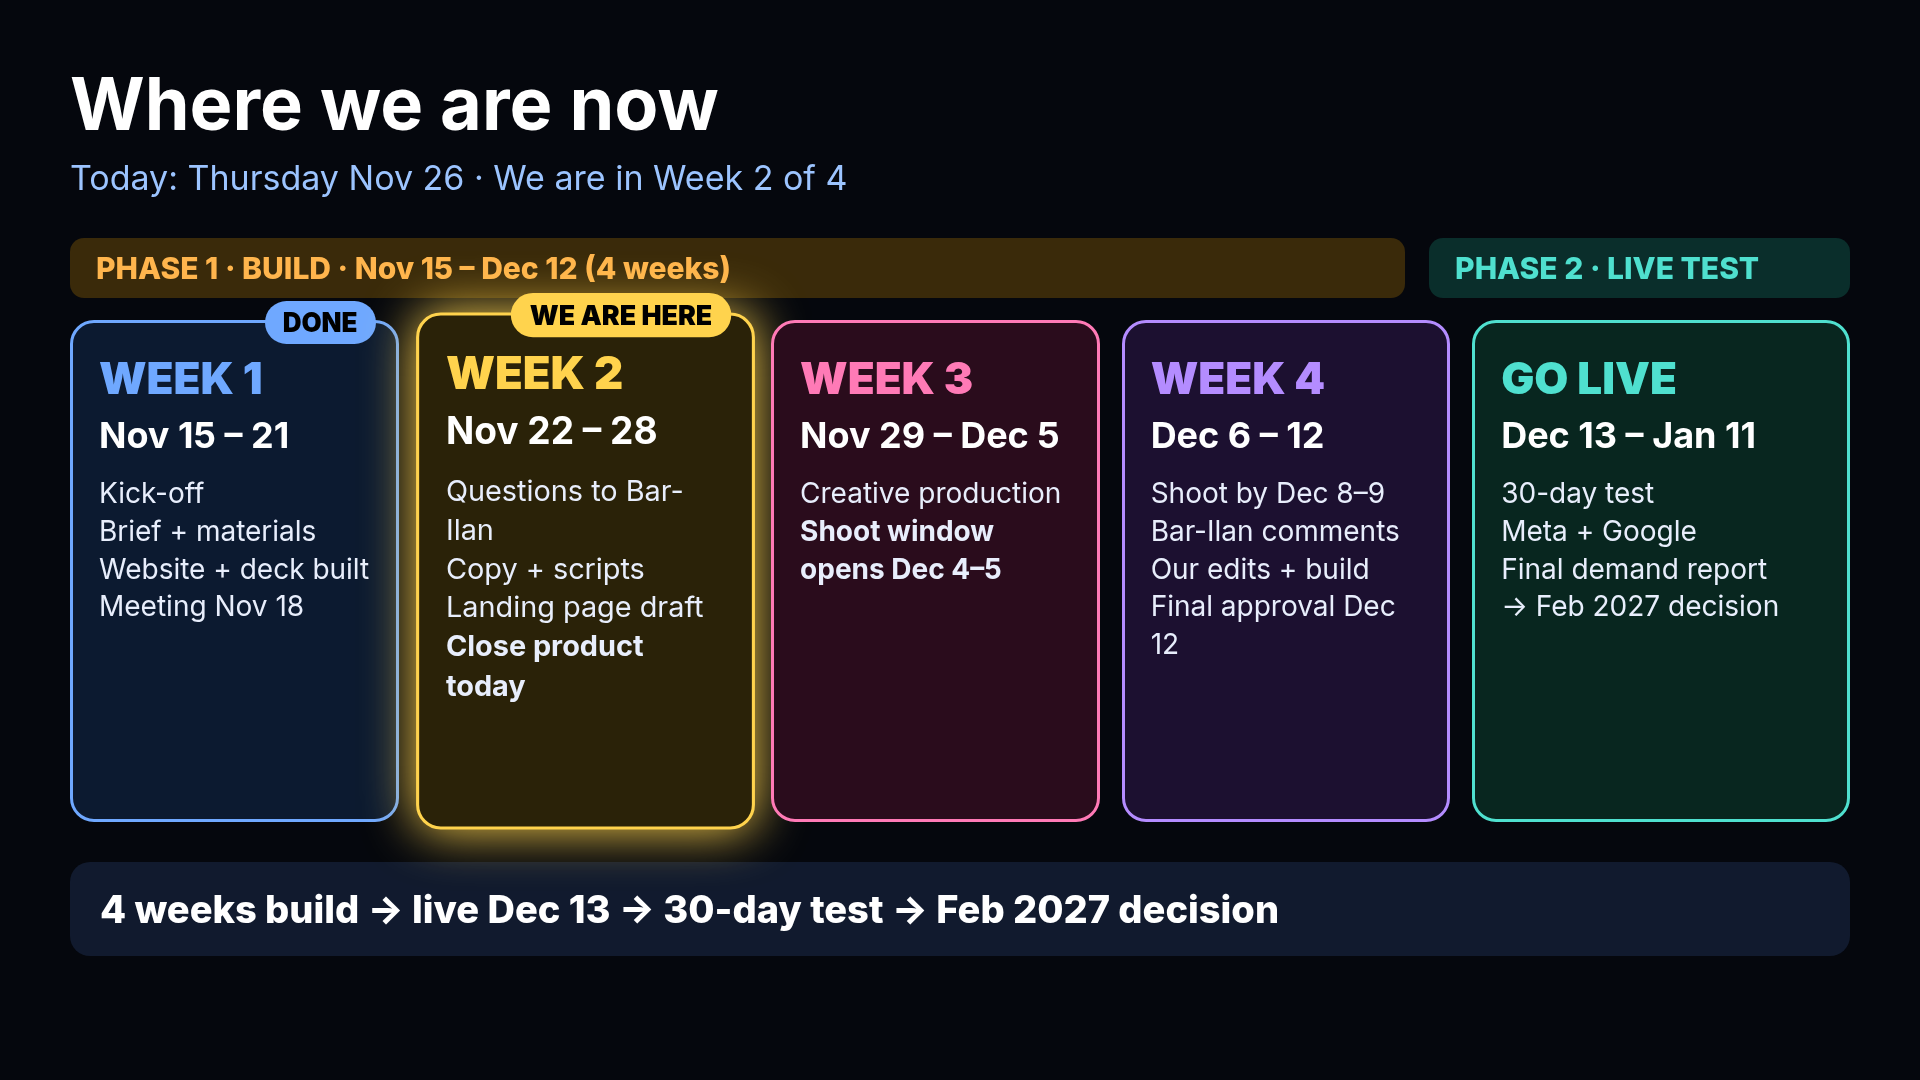
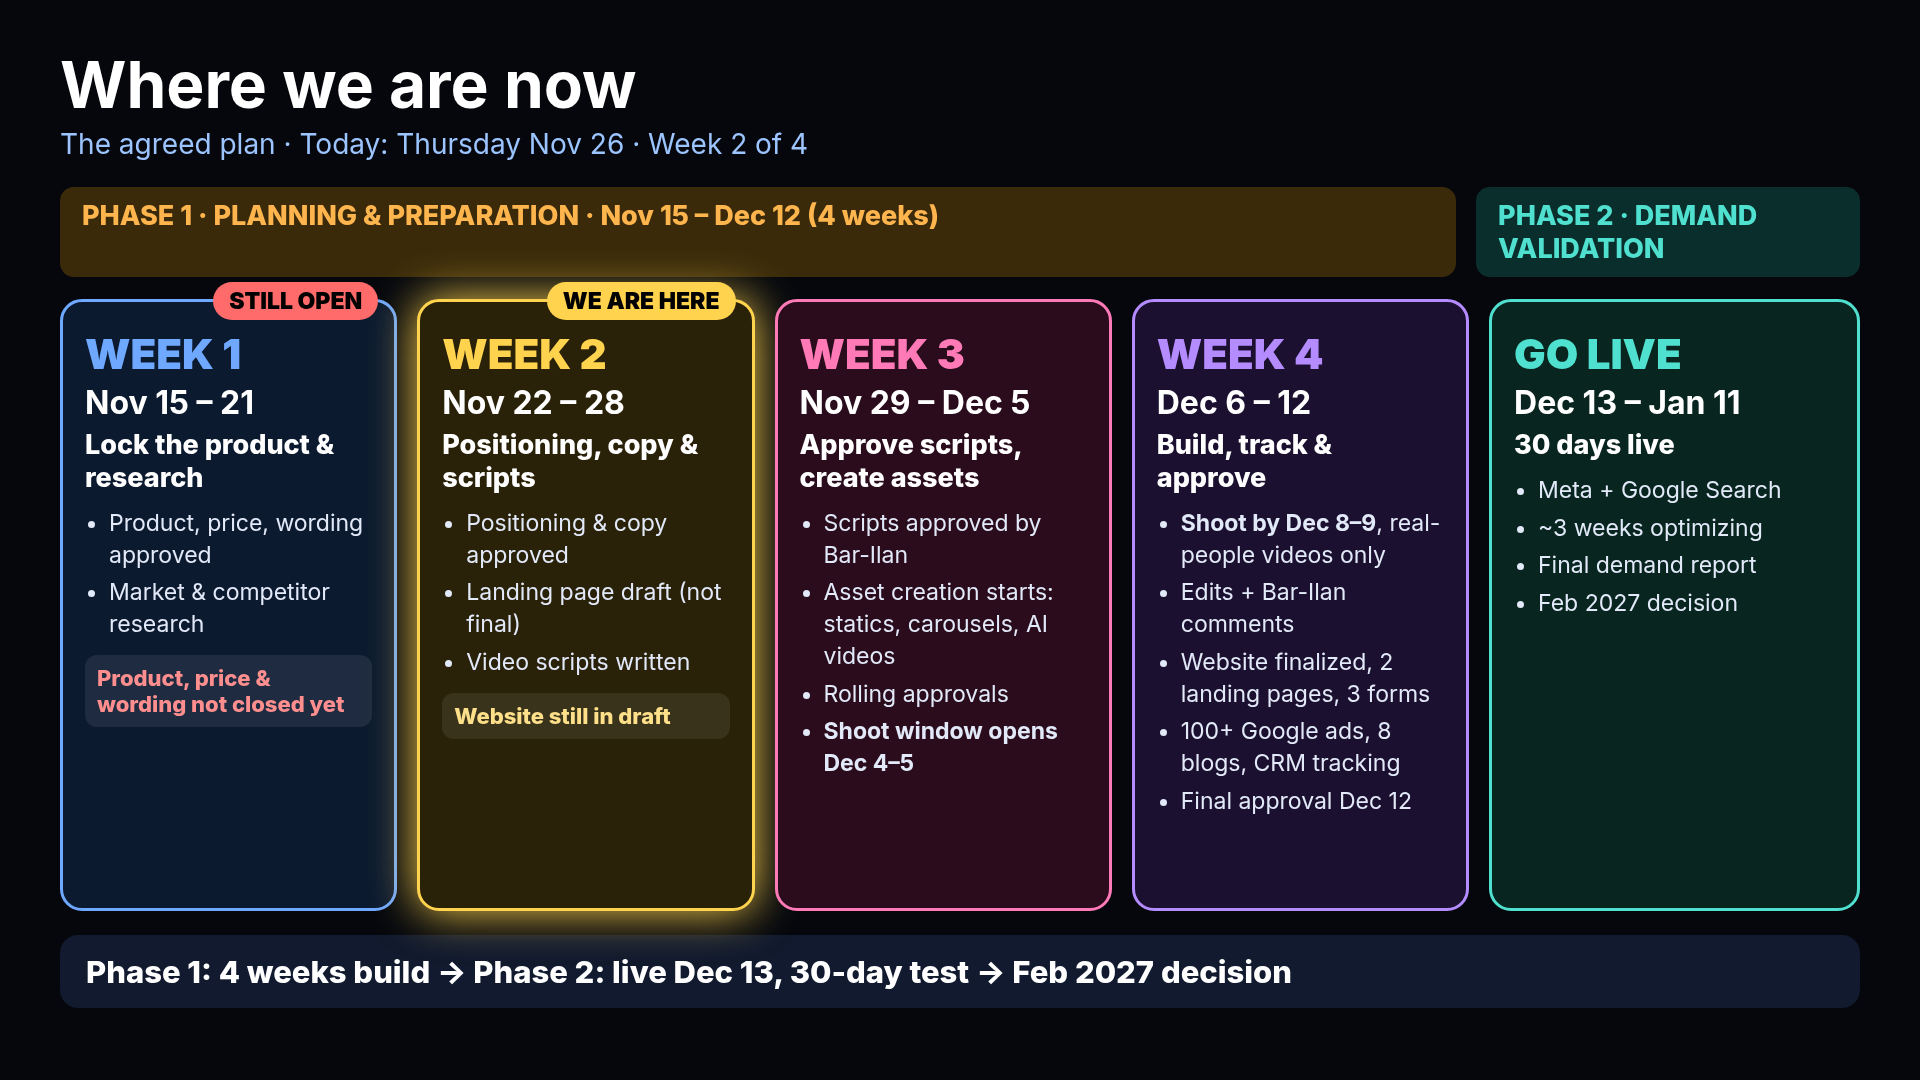
Timeline back on agreed phases and weeks, accurate statuses

diff --git a/present/timeline-source.html b/present/timeline-source.html
@@ -1,22 +1,24 @@
 <!doctype html><html><head><meta charset="utf-8"><style>
-body{margin:0;width:1920px;height:1080px;background:#05070d;color:#fff;font-family:Inter,Arial,sans-serif;padding:60px 70px;box-sizing:border-box}
-h1{font-size:72px;margin:0 0 10px}.sub{font-size:34px;color:#9cc4ff;margin-bottom:40px}
-.ph{display:flex;gap:24px;margin-bottom:22px}.lab{font-size:30px;font-weight:800;padding:12px 26px;border-radius:14px}
-.row{display:grid;grid-template-columns:repeat(4,1fr) 1.15fr;gap:22px}
-.c{border-radius:24px;padding:28px 26px;border:3px solid;min-height:440px;position:relative}
-.w{font-size:44px;font-weight:900}.d{font-size:36px;font-weight:700;margin:8px 0 18px}
-.t{font-size:28px;line-height:1.35;color:#e8eefc}.tag{position:absolute;top:-22px;right:20px;font-size:26px;font-weight:900;padding:6px 18px;border-radius:30px;color:#000}
-.now{box-shadow:0 0 50px #ffd34d;transform:scale(1.03)}
-.bot{margin-top:40px;font-size:38px;font-weight:800;background:#111a2e;border-radius:20px;padding:24px 30px}
+body{margin:0;width:1920px;height:1080px;background:#05070d;color:#fff;font-family:Inter,Arial,sans-serif;padding:46px 60px;box-sizing:border-box}
+h1{font-size:64px;margin:0 0 4px}.sub{font-size:28px;color:#9cc4ff;margin-bottom:26px}
+.ph{display:grid;grid-template-columns:4fr 1.1fr;gap:20px;margin-bottom:22px}.lab{font-size:27px;font-weight:800;padding:12px 22px;border-radius:14px}
+.row{display:grid;grid-template-columns:repeat(4,1fr) 1.1fr;gap:20px}
+.c{border-radius:22px;padding:26px 22px 20px;border:3px solid;min-height:560px;position:relative}
+.w{font-size:42px;font-weight:900}.d{font-size:32px;font-weight:700;margin:4px 0 6px}.h{font-size:27px;font-weight:800;margin-bottom:14px;color:#fff}
+.t{font-size:23px;line-height:1.38;color:#e2e9f8}.t li{margin-bottom:6px}.t ul{padding-left:24px;margin:0}
+.st{margin-top:14px;font-size:22px;font-weight:800;padding:10px 12px;border-radius:12px;background:#ffffff14}
+.tag{position:absolute;top:-20px;right:16px;font-size:23px;font-weight:900;padding:5px 16px;border-radius:30px;color:#000}
+.now{box-shadow:0 0 46px #ffd34d}
+.bot{margin-top:24px;font-size:31px;font-weight:800;background:#111a2e;border-radius:18px;padding:18px 26px}
 </style></head><body>
-<h1>Where we are now</h1><div class="sub">Today: Thursday Nov 26 · We are in Week 2 of 4</div>
-<div class="ph"><div class="lab" style="background:#3a2a0a;color:#ffb54d;flex:4">PHASE 1 · BUILD · Nov 15 – Dec 12 (4 weeks)</div><div class="lab" style="background:#0a2e2b;color:#4fe0cf;flex:1.15">PHASE 2 · LIVE TEST</div></div>
+<h1>Where we are now</h1><div class="sub">The agreed plan · Today: Thursday Nov 26 · Week 2 of 4</div>
+<div class="ph"><div class="lab" style="background:#3a2a0a;color:#ffb54d">PHASE 1 · PLANNING &amp; PREPARATION · Nov 15 – Dec 12 (4 weeks)</div><div class="lab" style="background:#0a2e2b;color:#4fe0cf">PHASE 2 · DEMAND VALIDATION</div></div>
 <div class="row">
-<div class="c" style="border-color:#6FA8FF;background:#0c1a30"><div class="tag" style="background:#6FA8FF">DONE</div><div class="w" style="color:#6FA8FF">WEEK 1</div><div class="d">Nov 15 – 21</div><div class="t">Kick-off<br>Brief + materials<br>Website + deck built<br>Meeting Nov 18</div></div>
-<div class="c now" style="border-color:#ffd34d;background:#2a2208"><div class="tag" style="background:#ffd34d">WE ARE HERE</div><div class="w" style="color:#ffd34d">WEEK 2</div><div class="d">Nov 22 – 28</div><div class="t">Questions to Bar-Ilan<br>Copy + scripts<br>Landing page draft<br><b>Close product today</b></div></div>
-<div class="c" style="border-color:#ff7ab6;background:#2a0c1c"><div class="w" style="color:#ff7ab6">WEEK 3</div><div class="d">Nov 29 – Dec 5</div><div class="t">Creative production<br><b>Shoot window opens Dec 4–5</b></div></div>
-<div class="c" style="border-color:#b48cff;background:#1c1030"><div class="w" style="color:#b48cff">WEEK 4</div><div class="d">Dec 6 – 12</div><div class="t">Shoot by Dec 8–9<br>Bar-Ilan comments<br>Our edits + build<br>Final approval Dec 12</div></div>
-<div class="c" style="border-color:#4fe0cf;background:#08261f"><div class="w" style="color:#4fe0cf">GO LIVE</div><div class="d">Dec 13 – Jan 11</div><div class="t">30-day test<br>Meta + Google<br>Final demand report<br>→ Feb 2027 decision</div></div>
+<div class="c" style="border-color:#6FA8FF;background:#0c1a30"><div class="tag" style="background:#ff6b6b">STILL OPEN</div><div class="w" style="color:#6FA8FF">WEEK 1</div><div class="d">Nov 15 – 21</div><div class="h">Lock the product &amp; research</div><div class="t"><ul><li>Product, price, wording approved</li><li>Market &amp; competitor research</li></ul></div><div class="st" style="color:#ff8f8f">Product, price &amp; wording not closed yet</div></div>
+<div class="c now" style="border-color:#ffd34d;background:#2a2208"><div class="tag" style="background:#ffd34d">WE ARE HERE</div><div class="w" style="color:#ffd34d">WEEK 2</div><div class="d">Nov 22 – 28</div><div class="h">Positioning, copy &amp; scripts</div><div class="t"><ul><li>Positioning &amp; copy approved</li><li>Landing page draft (not final)</li><li>Video scripts written</li></ul></div><div class="st" style="color:#ffe08a">Website still in draft</div></div>
+<div class="c" style="border-color:#ff7ab6;background:#2a0c1c"><div class="w" style="color:#ff7ab6">WEEK 3</div><div class="d">Nov 29 – Dec 5</div><div class="h">Approve scripts, create assets</div><div class="t"><ul><li>Scripts approved by Bar-Ilan</li><li>Asset creation starts: statics, carousels, AI videos</li><li>Rolling approvals</li><li><b>Shoot window opens Dec 4–5</b></li></ul></div></div>
+<div class="c" style="border-color:#b48cff;background:#1c1030"><div class="w" style="color:#b48cff">WEEK 4</div><div class="d">Dec 6 – 12</div><div class="h">Build, track &amp; approve</div><div class="t"><ul><li><b>Shoot by Dec 8–9</b>, real-people videos only</li><li>Edits + Bar-Ilan comments</li><li>Website finalized, 2 landing pages, 3 forms</li><li>100+ Google ads, 8 blogs, CRM tracking</li><li>Final approval Dec 12</li></ul></div></div>
+<div class="c" style="border-color:#4fe0cf;background:#08261f"><div class="w" style="color:#4fe0cf">GO LIVE</div><div class="d">Dec 13 – Jan 11</div><div class="h">30 days live</div><div class="t"><ul><li>Meta + Google Search</li><li>~3 weeks optimizing</li><li>Final demand report</li><li>Feb 2027 decision</li></ul></div></div>
 </div>
-<div class="bot">4 weeks build → live Dec 13 → 30-day test → Feb 2027 decision</div>
+<div class="bot">Phase 1: 4 weeks build → Phase 2: live Dec 13, 30-day test → Feb 2027 decision</div>
 </body></html>
